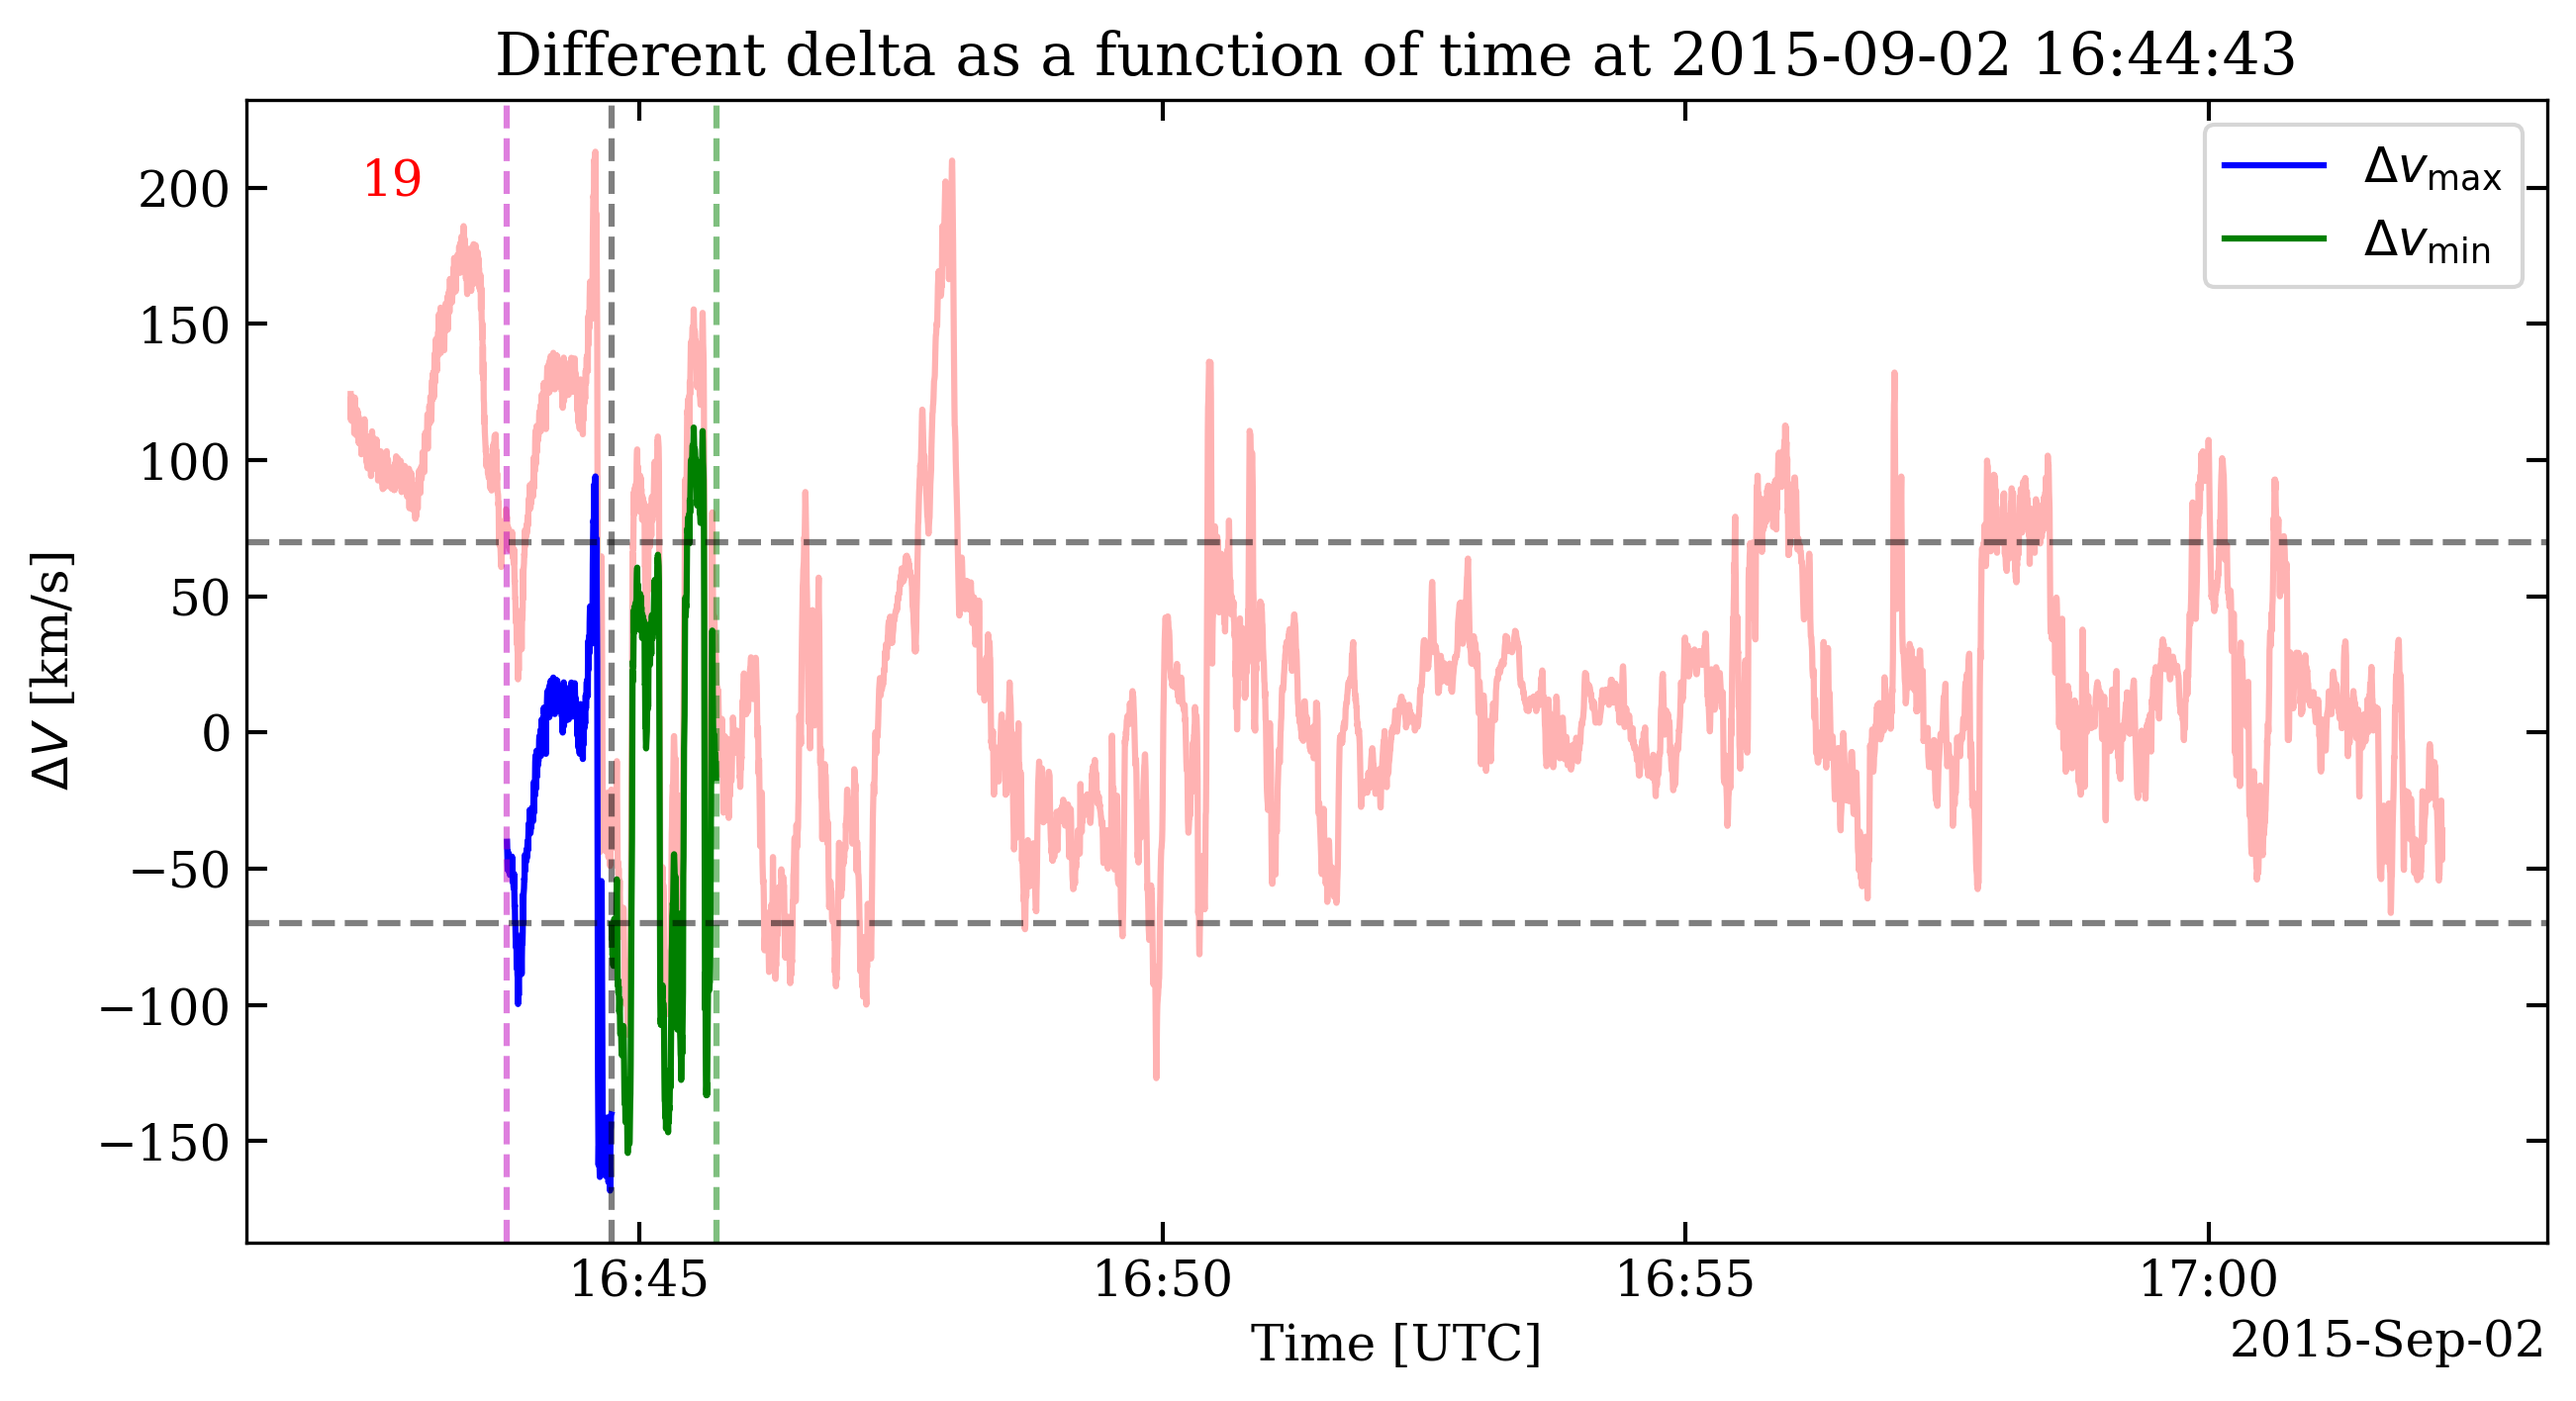
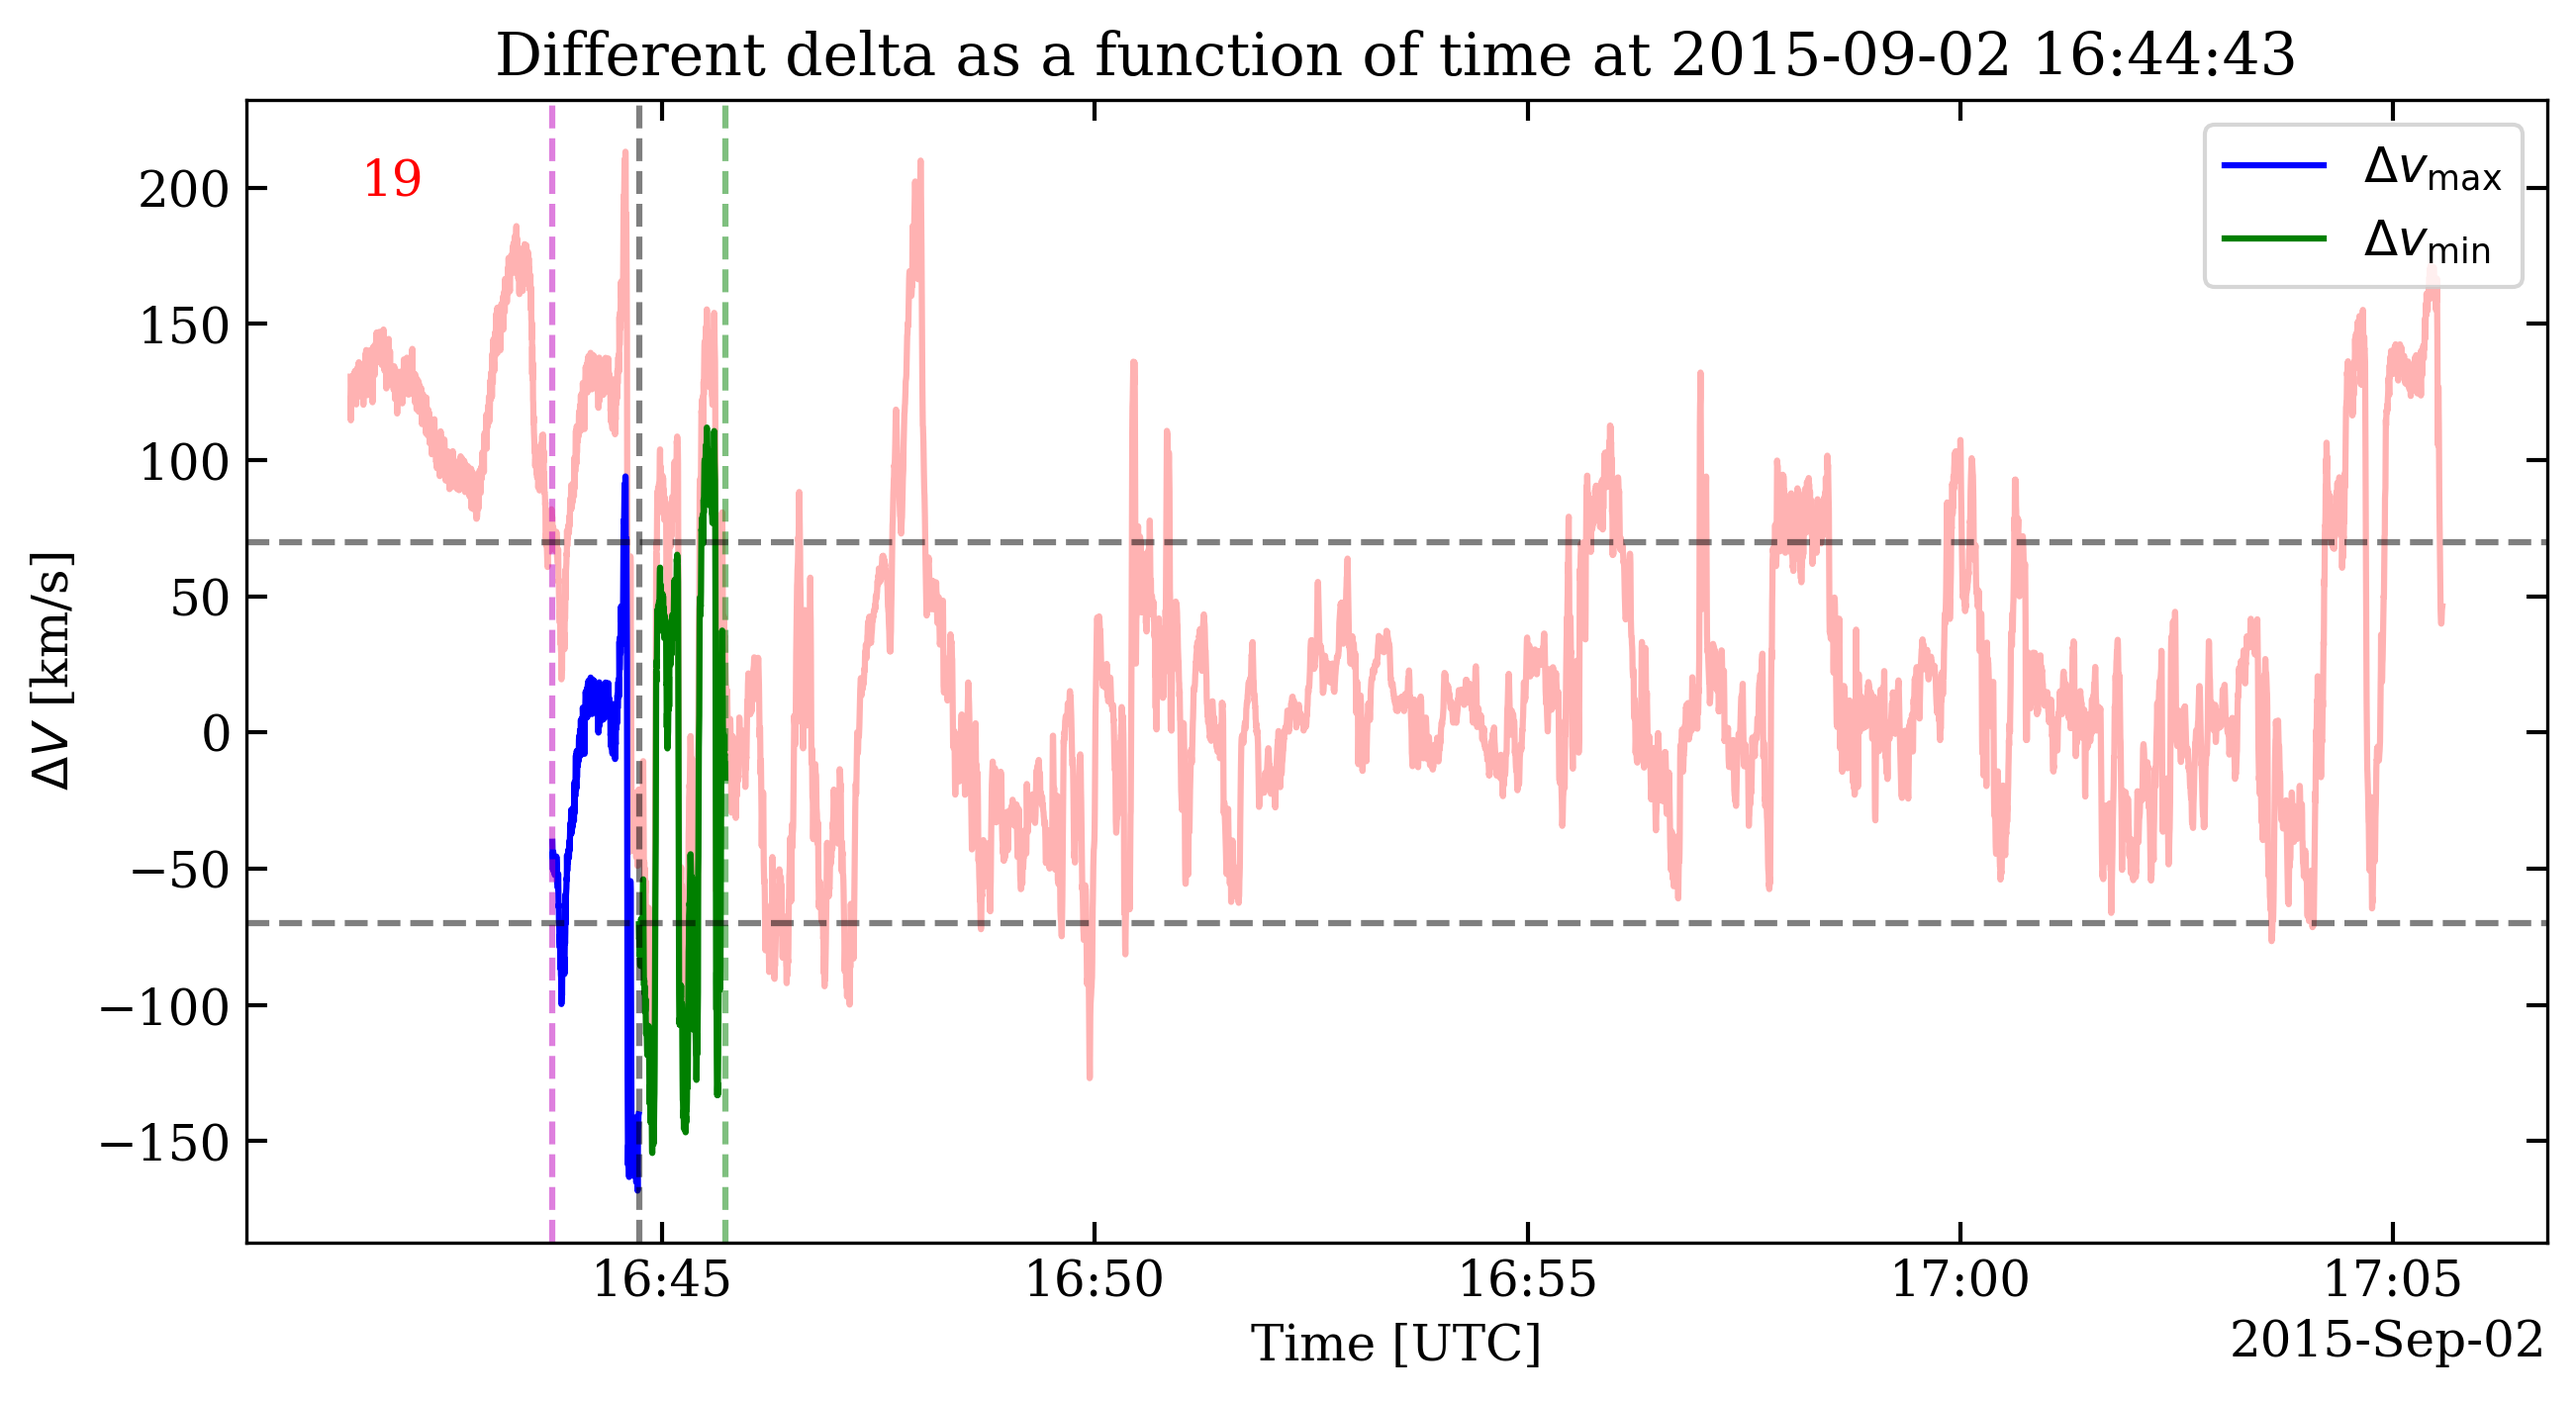
modified:   jet_reversal_quick_check_parallel_beta.py 	modified:   ../data/mms_jet_reversal_times_list_20230213_beta_brst.csv 	new file:   ../figures/jet_reversal_checks/check_20230213/brst/jet/mms3_20150902_1644_00019_29s_1.8rw_41th.png 	new file:   ../figures/jet_reversal_checks/check_20230213/brs

diff --git a/codes/jet_reversal_quick_check_parallel_beta.py b/codes/jet_reversal_quick_check_parallel_beta.py
@@ -40,7 +40,7 @@ def check_jet_reversal(crossing_time):
     inputs = {'crossing_time': crossing_time,
               'dt': 600,
               'probe': 3,
-              'jet_len': 5,
+              'jet_len': 1,
               'level': 'l2',
               'coord_type': 'lmn',
               'data_type': ['dis-moms', 'des-moms'],
@@ -62,8 +62,9 @@ def check_jet_reversal(crossing_time):
             inputs["data_rate"] = 'brst'
             _ = jrcfb.jet_reversal_check(**inputs)
         except Exception:
-            inputs["data_rate"] = 'fast'
-            _ = jrcfb.jet_reversal_check(**inputs)
+            # inputs["data_rate"] = 'fast'
+            # _ = jrcfb.jet_reversal_check(**inputs)
+            pass
     except Exception as e:
         # print(f"\033[91;31m\n{e} for date {crossing_time}\n\033[0m")
         # Save the crossing time to a file
@@ -137,11 +138,11 @@ for foo in range(1):
         #pool.close()
         #pool.join()
     else:
-        indx_min = 18
+        indx_min = 19
         # indx_min = 400
         # Ask the user for the maximum index number
         # indx_max = int(input("Enter the maximum index number: "))
-        indx_max = indx_min + 4
+        indx_max = indx_min + 1
         for xx, crossing_time in enumerate(df_crossings.index[indx_min:indx_max],
                                            start=indx_min):
 
